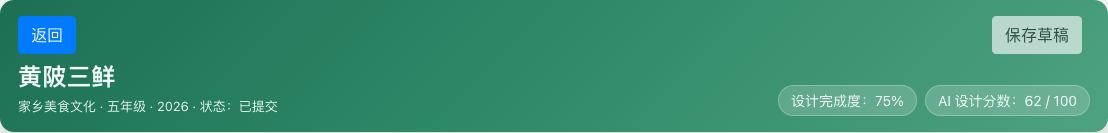
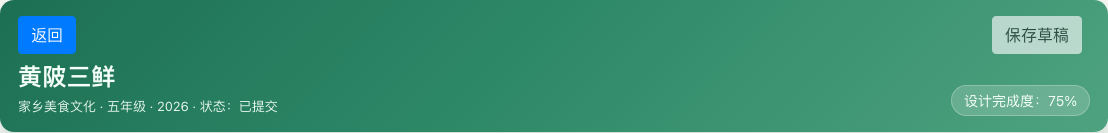
AI 设计分数: move from plan header onto its AI 点评 row
The score belongs to the content version its AI review saw, so it now
rides on that row (badge in the 内容 cell for the owner, the 评分 column
for experts/admins) with the itemized-score + criteria tooltip; the row's
内容已更新 tag covers both. attachAiScores now also serves the plan's owner
(peer teachers still never get a score) and only design-scope AI rows.
Header keeps 设计完成度 only. Manual text moved to the AI 点评 chapter;
screenshots updated.

Changed region(s): [[0.6751, 0.6316, 0.9819, 0.8722]]

diff --git a/react-app/src/components/plan-detail.component.js b/react-app/src/components/plan-detail.component.js
@@ -223,64 +223,24 @@ const DynamicSectionFields = ({ fields, subsections, values, canEdit, onFieldCha
   );
 };
 
-// The header's 设计完成度 and AI 设计分数 -- both score the 计划 (design)
-// only; 实施 counterparts may come later. Sent only to the owner and
-// admins/experts (plan.controller.js#findOne's canSeeProgress) -- a peer
-// teacher never gets them, so this renders nothing for them. As of the last
-// save (retrievePlan reloads them). Its own component rather than inline
-// JSX: PlanDetail is big enough that one more conditional branch in it trips
+// The header's 设计完成度 -- planCompletion.js scores the 计划 (design)
+// only; an 实施完成度 may come later. Sent only to the owner and
+// admins/experts (plan.controller.js#findOne's canSeeCompletion) -- a peer
+// teacher never gets it, so this renders nothing for them. As of the last
+// save (retrievePlan reloads it). (AI 设计分数 sits on its AI 点评 row, see
+// review-list.component.js.) Its own component rather than inline JSX:
+// PlanDetail is big enough that one more conditional branch in it trips
 // react-hooks/rules-of-hooks' path counting into a false "hook called
 // conditionally" error, which fails the dev build.
-// AI 设计分数's hover text: per dimension, the score it got and the
-// standard's 考察要点 it was scored against.
-const aiDesignScoreTooltip = (s) => {
-  const scored = new Map((s.dimensionScores || []).map((d) => [d.name, d]));
-  const dims = (s.criteria || []).length > 0 ? s.criteria : s.dimensionScores || [];
-  const blocks = dims.map((dim) => {
-    const got = scored.get(dim.name);
-    const head = `【${dim.name}】${got ? `${got.score}/${dim.weight}${got.level ? `（${got.level}）` : ""}` : `满分 ${dim.weight}`}`;
-    return [head, ...(dim.criteria || []).map((c) => `· ${c}`)].join("\n");
-  });
-  return [
-    `评分标准：${s.standardTitle || "AI 点评标准"}（#${s.standardId}${s.maxScore ? `，满分 ${s.maxScore}` : ""}）`,
-    ...blocks,
-    `打分于 ${new Date(s.scoredAt).toLocaleString()}`,
-    s.stale && "内容已更新：课程内容已在此 AI 打分后被修改，分数针对的是修改前的内容。",
-  ]
-    .filter(Boolean)
-    .join("\n\n");
-};
-
-const PlanProgressBadges = ({ completion, aiDesignScore: s }) => {
-  if (!completion && !s) return null;
-  return (
-    <div className="d-flex flex-wrap" style={{ gap: "8px" }}>
-      {completion && (
-        <span
-          className="pl-completion"
-          title={`基本信息 ${completion.basic}% · 课程设计 ${completion.design}% · 分课时设计 ${completion.lessonDesign}%（按上次保存的内容计算）`}
-        >
-          设计完成度：{completion.overall}%
-        </span>
-      )}
-      {s && (
-        <span
-          className="pl-completion"
-          title={aiDesignScoreTooltip(s)}
-        >
-          AI 设计分数：{s.totalScore}
-          {s.maxScore ? ` / ${s.maxScore}` : ""}
-          {/* Same tag as an out-of-date AI 点评 row (review-list.component.js). */}
-          {s.stale && (
-            <span className="pl-tag pl-tag-warn ml-2" title="课程内容已在此 AI 打分后被修改，分数针对的是修改前的内容">
-              内容已更新
-            </span>
-          )}
-        </span>
-      )}
-    </div>
-  );
-};
+const CompletionBadge = ({ completion }) =>
+  completion ? (
+    <span
+      className="pl-completion"
+      title={`基本信息 ${completion.basic}% · 课程设计 ${completion.design}% · 分课时设计 ${completion.lessonDesign}%（按上次保存的内容计算）`}
+    >
+      设计完成度：{completion.overall}%
+    </span>
+  ) : null;
 
 // The page's single 保存草稿/提交待点评 pair, rendered once in the sticky
 // header (see .pl-sticky-header) rather than above and below every section
@@ -1822,7 +1782,7 @@ const PlanDetail = (props) => {
                 {plan.isExcellentCase ? " · 优秀案例" : ""}
               </p>
             </div>
-            <PlanProgressBadges completion={plan.completion} aiDesignScore={plan.aiDesignScore} />
+            <CompletionBadge completion={plan.completion} />
           </div>
           {plan.suspended && !isAdmin && (
             <div className="alert alert-warning py-2 mb-0">该课程设计已被管理员停用，如需修改请联系管理员。</div>

diff --git a/backend/app/controllers/review.controller.js b/backend/app/controllers/review.controller.js
@@ -238,40 +238,49 @@ exports.markSeen = async (req, res) => {
 
 // "super" inherits every admin privilege, including deleting any review
 // regardless of authorship.
-// AI 打分 rides along on the AI review rows it belongs to -- a score of the
-// same plan content version, i.e. of exactly the content that review saw:
-// preferably one under the review's own standard (the one produced in, or
-// current at, that review's turn), otherwise the newest score of that
-// content version -- a review written before any standard existed, or one
-// whose content was later scored under a newer standard, still shows how
-// that content scored. A score of a later version is never attached to an
-// earlier review. Shown in the review list's 评分 column,
-// which teachers don't see. Only experts and admins get it here, with the
-// same plan scope as 数据看板: admins any plan, experts only submitted,
-// non-suspended ones. (The plan's owner sees its latest score as the plan
-// header's AI 设计分数 instead -- plan.controller.js#findOne; peer teachers
-// never receive an AI score.)
+// AI 设计分数 (AI 打分) rides along on the AI review rows it belongs to -- a
+// score of the same plan content version, i.e. of exactly the content that
+// review saw: preferably one under the review's own standard (the one
+// produced in, or current at, that review's turn), otherwise the newest
+// score of that content version -- a review written before any standard
+// existed, or one whose content was later scored under a newer standard,
+// still shows how that content scored. A score of a later version is never
+// attached to an earlier review, so a row's 内容已更新 tag speaks for its
+// score too. Each score carries its standard's 满分 and per-dimension 考察要点
+// for the row's tooltip. Sent to the plan's owner (any of their plans) and
+// to admins (any plan) and experts (submitted, non-suspended plans -- the
+// same scope as 数据看板); peer teachers never receive an AI score.
 async function attachAiScores(planId, rows, userId) {
   const plain = rows.map((r) => r.get({ plain: true }));
-  const aiRows = plain.filter((r) => r.reviewerType === "ai" && r.lessonIndex === null);
+  const aiRows = plain.filter((r) => r.reviewerType === "ai" && r.lessonIndex === null && !r.sectionKey);
   if (!userId || aiRows.length === 0) return plain;
-  const isAdmin = await isAdminRequester(userId);
-  if (!isAdmin) {
+  const plan = await Plan.findByPk(planId, { attributes: ["teacherId", "status", "suspended"] });
+  if (!plan) return plain;
+  if (plan.teacherId !== userId && !(await isAdminRequester(userId))) {
     if (!(await isExpertRequester(userId))) return plain;
-    const plan = await Plan.findByPk(planId, { attributes: ["status", "suspended"] });
-    if (!plan || plan.status === "draft" || plan.suspended) return plain;
+    if (plan.status === "draft" || plan.suspended) return plain;
   }
   const scores = await db.aiPlanScore.findAll({ where: { planId }, order: [["id", "DESC"]] });
+  const standardIds = [...new Set(scores.map((x) => x.standardId).filter(Boolean))];
+  const standards = standardIds.length
+    ? await db.aiReviewStandard.findAll({ where: { id: { [db.Sequelize.Op.in]: standardIds } }, attributes: ["id", "content"] })
+    : [];
+  const contentById = new Map(standards.map((st) => [Number(st.id), st.content || {}]));
   const time = (d) => (d ? new Date(d).getTime() : null);
   aiRows.forEach((r) => {
     const sameContent = scores.filter((x) => time(x.planVersionAt) === time(r.planVersionAt));
     const s = sameContent.find((x) => Number(x.standardId) === Number(r.standardId)) || sameContent[0];
     if (s) {
+      const content = contentById.get(Number(s.standardId)) || {};
       r.aiScore = {
         totalScore: Number(s.totalScore),
+        maxScore: content.totalScore || null,
         dimensionScores: s.dimensionScores,
         summary: s.summary,
         standardId: s.standardId,
+        standardTitle: content.title || null,
+        criteria: (content.dimensions || []).map((d) => ({ name: d.name, weight: d.weight, criteria: d.criteria || [] })),
+        scoredAt: s.createdAt,
       };
     }
   });

diff --git a/backend/app/controllers/plan.controller.js b/backend/app/controllers/plan.controller.js
@@ -116,37 +116,12 @@ const canViewNonExcellentPlan = async (plan, userId) => {
   return (expert || teacher) && plan.status !== "draft";
 };
 
-// Who sees a plan's 设计完成度 and AI 设计分数: its owner,
-// admins/super-admins and experts.
-const canSeeProgress = async (plan, userId) => {
+// Who sees a plan's 设计完成度: its owner, admins/super-admins and experts.
+const canSeeCompletion = async (plan, userId) => {
   if (!userId) return false;
   if (plan.teacherId === userId) return true;
   const [admin, expert] = await Promise.all([isAdminRequester(userId), isExpertRequester(userId)]);
   return admin || expert;
-};
-
-// The plan's newest AI 打分 (same pick as 数据看板), or null if never
-// scored. `stale`: the plan's content was edited after the scored version
-// -- the same version check review-list.component.js's isCurrentVersion
-// uses to tag AI 点评 rows 内容已更新.
-const latestAiDesignScore = async (plan) => {
-  const s = await db.aiPlanScore.findOne({ where: { planId: plan.id }, order: [["id", "DESC"]] });
-  if (!s) return null;
-  const standard = s.standardId ? await db.aiReviewStandard.findByPk(s.standardId, { attributes: ["id", "content"] }) : null;
-  const time = (d) => (d ? new Date(d).getTime() : 0);
-  const content = (standard && standard.content) || {};
-  return {
-    totalScore: Number(s.totalScore),
-    maxScore: content.totalScore || null,
-    standardTitle: content.title || null,
-    // The standard's own per-dimension 考察要点, for the score's tooltip.
-    criteria: (content.dimensions || []).map((d) => ({ name: d.name, weight: d.weight, criteria: d.criteria || [] })),
-    dimensionScores: s.dimensionScores,
-    summary: s.summary,
-    standardId: s.standardId,
-    scoredAt: s.createdAt,
-    stale: time(plan.contentVersionAt) !== time(s.planVersionAt),
-  };
 };
 
 // 乡土主题 options come from the active plan_design template's own "附件"
@@ -546,18 +521,17 @@ exports.findOne = async (req, res) => {
       return res.status(403).send({ message: "无权查看该乡土课程设计。" });
     }
 
-    // 设计完成度 (planCompletion.js) and AI 设计分数 (the latest
-    // ai_plan_scores row, as 数据看板 shows it) are for the plan's owner and
-    // for admins/experts, who track progress -- not for a peer teacher (or
-    // an anonymous gallery visitor) browsing someone else's plan, so they're
-    // only computed and sent for the former.
-    if (await canSeeProgress(data, req.userId)) {
+    // 设计完成度 (planCompletion.js) is for the plan's owner and for
+    // admins/experts, who track progress -- not for a peer teacher (or an
+    // anonymous gallery visitor) browsing someone else's plan, so it's only
+    // computed and sent for the former. (AI 设计分数 rides on its AI 点评
+    // row instead -- review.controller.js#attachAiScores.)
+    if (await canSeeCompletion(data, req.userId)) {
       const plain = data.get({ plain: true });
       plain.completion = computeCompletion(plain, {
         planSchema: data.PlanTemplateVersion ? data.PlanTemplateVersion.schemaJson : null,
         hasDesignArtifact: (data.Artifacts || []).some((a) => a.lessonIndex === null || a.lessonIndex === undefined),
       });
-      plain.aiDesignScore = await latestAiDesignScore(data);
       return res.send(plain);
     }
 

diff --git a/react-app/src/components/review-list.component.js b/react-app/src/components/review-list.component.js
@@ -3,6 +3,7 @@ import ReviewDataService from "../services/review.service";
 import AuthService from "../services/auth.service";
 import { takeLocalDraft, isDraftStale } from "../utils/sessionExpiryGuard";
 import { getPendingReviewEdit, setPendingReviewEdit, clearPendingReviewEdit, reviewPayload } from "../utils/pendingReviewEdits";
+import { aiDesignScoreTooltip, aiDesignScoreText } from "../utils/aiDesignScore";
 
 // Migrated from shinshin's comments-list.component.js (inline textarea-submit + list-below
 // pattern), extended with:
@@ -782,24 +783,21 @@ const ReviewList = (props) => {
                 );
               }
 
+              // AI 设计分数 from the same content version as this AI review
+              // (review.controller.js#attachAiScores) -- sent to the plan's
+              // owner and to experts/admins, never to a peer teacher. In the
+              // 评分 column where there is one (experts/admins), otherwise
+              // (the owner's view) as a badge in the row itself; either way
+              // hover shows the itemized scores and scoring criteria, and the
+              // row's 内容已更新 tag covers the score too.
+              const aiScoreBadge = review.aiScore && (
+                <span className="pl-ai-score" title={aiDesignScoreTooltip(review.aiScore)}>
+                  AI 设计分数：{aiDesignScoreText(review.aiScore)}
+                </span>
+              );
               const scoreContent = review.aiScore ? (
-                // AI 打分 from the same turn/content version as this AI
-                // review -- only ever sent to experts/admins (see
-                // review.controller.js#attachAiScores); hover for the
-                // per-dimension breakdown.
-                <span
-                  style={{ cursor: "help", borderBottom: "1px dotted" }}
-                  title={[
-                    ...(review.aiScore.dimensionScores || []).map(
-                      (d) => `${d.name}：${d.score}/${d.weight}${d.level ? `（${d.level}）` : ""}`
-                    ),
-                    review.aiScore.summary && `总评：${review.aiScore.summary}`,
-                    `依据 AI 点评标准 #${review.aiScore.standardId}`,
-                  ]
-                    .filter(Boolean)
-                    .join("\n")}
-                >
-                  {review.aiScore.totalScore}
+                <span style={{ cursor: "help", borderBottom: "1px dotted" }} title={aiDesignScoreTooltip(review.aiScore)}>
+                  {aiDesignScoreText(review.aiScore)}
                 </span>
               ) : review.score !== null && review.score !== undefined ? (
                 review.score
@@ -854,6 +852,7 @@ const ReviewList = (props) => {
                       {isAggregateView && <td>{moduleContent}</td>}
                       {showScore && <td>{scoreContent}</td>}
                       <td className="small" style={{ whiteSpace: "nowrap" }}>
+                        {!showScore && aiScoreBadge}
                         {toggle || <span className="text-muted">见下方</span>}
                       </td>
                       <td style={{ whiteSpace: "nowrap" }}>{reviewerName}</td>

diff --git a/backend/app/services/teacherManualGenerator.js b/backend/app/services/teacherManualGenerator.js
@@ -397,13 +397,7 @@ push(
       "鼠标移到上面可查看三部分各自的完成比例。设计完成度按上次保存的内容计算，点击「保存草稿」后更新。" +
       "设计完成度仅作者本人、专家和管理员可见，其他教师浏览您的课程设计时看不到。"
   ),
-  p(
-    "课程设计经过 AI 打分后，「设计完成度」旁还会显示「AI 设计分数」（如「62 / 100」），即依据当前 AI 点评标准对「计划」部分给出的最新总分。" +
-      "鼠标移到分数上，可查看评分标准中每个维度的得分与等级，以及该维度的考察要点。" +
-      "如果打分之后课程内容又有修改，分数旁会出现橙色的「内容已更新」标记（与 AI 点评的过期标记相同），表示该分数针对的是修改前的内容，可再次请 AI 点评以获得新的分数。" +
-      "与设计完成度一样，AI 设计分数仅作者本人、专家和管理员可见。"
-  ),
-  ...screenshot("plan-completion", "标题栏右下角的「设计完成度」与「AI 设计分数」")
+  ...screenshot("plan-completion", "标题栏右下角的「设计完成度」")
 );
 
 // ============================================================
@@ -562,6 +556,16 @@ push(
     "AI 点评以浅蓝紫色底色显示：上面一行是类型、模块、点评人、时间等信息，下面整行宽度显示点评全文，便于阅读；" +
       "较长的 AI 点评默认只显示前几行，点击「展开全文」查看全部，点击「收起」恢复。"
   ),
+  bulletItem(
+    "「计划整体点评」中的 AI 点评附有「AI 设计分数」（如「62 / 100」）：AI 在生成这条点评时，依据当前 AI 点评标准对「计划」部分的同一版本内容给出的总分，" +
+      "显示在这条 AI 点评的「内容」一栏。鼠标移到分数上，可查看评分标准中每个维度的得分与等级，以及该维度的考察要点。"
+  ),
+  bulletItem(
+    "分数与点评针对的是同一版本的内容：如果之后课程内容又有修改，这条 AI 点评会出现橙色的「内容已更新」标记，表示点评和分数都针对修改前的内容，" +
+      "可再次「请AI点评」获得新的点评和分数。"
+  ),
+  bulletItem("AI 设计分数仅作者本人、专家和管理员可见，其他教师浏览您的课程设计时看不到。"),
+  ...screenshot("ai-design-score-row", "AI 点评「内容」一栏中的「AI 设计分数」"),
   bulletItem("「基本信息」页面会显示「AI已点评」标签，只要存在任意一条 AI 点评即会显示。"),
   warn("请求 AI 点评是所有者本人的操作（其他教师、专家、管理员无法为别人的课程设计触发 AI 点评）。")
 );

diff --git a/react-app/src/utils/aiDesignScore.js b/react-app/src/utils/aiDesignScore.js
@@ -1,0 +1,23 @@
+// AI 设计分数's hover text (see review.controller.js#attachAiScores for the
+// score's shape): the standard it was scored against, then per dimension
+// the score it got and that dimension's 考察要点.
+export const aiDesignScoreTooltip = (s) => {
+  const scored = new Map((s.dimensionScores || []).map((d) => [d.name, d]));
+  const dims = (s.criteria || []).length > 0 ? s.criteria : s.dimensionScores || [];
+  const blocks = dims.map((dim) => {
+    const got = scored.get(dim.name);
+    const head = `【${dim.name}】${got ? `${got.score}/${dim.weight}${got.level ? `（${got.level}）` : ""}` : `满分 ${dim.weight}`}`;
+    return [head, ...(dim.criteria || []).map((c) => `· ${c}`)].join("\n");
+  });
+  return [
+    `评分标准：${s.standardTitle || "AI 点评标准"}（#${s.standardId}${s.maxScore ? `，满分 ${s.maxScore}` : ""}）`,
+    ...blocks,
+    s.summary && `总评：${s.summary}`,
+    s.scoredAt && `打分于 ${new Date(s.scoredAt).toLocaleString()}`,
+  ]
+    .filter(Boolean)
+    .join("\n\n");
+};
+
+// "62 / 100" (or just "62" when the standard's 满分 is unknown).
+export const aiDesignScoreText = (s) => `${s.totalScore}${s.maxScore ? ` / ${s.maxScore}` : ""}`;

diff --git a/backend/scripts/captureManualScreenshots.js b/backend/scripts/captureManualScreenshots.js
@@ -264,8 +264,14 @@ async function run() {
     await page.getByText("计划整体点评", { exact: true }).first().click();
     await page.waitForTimeout(300);
     await shoot(page.locator(".pl-card").first(), "review-panel");
+    // The owner's view of an AI 点评 row: AI 设计分数 badge in its 内容 cell
+    // (experts/admins get it in the 评分 column instead).
+    {
+      const aiRow = page.locator("tr.pl-review-ai-meta").first();
+      if (await aiRow.locator(".pl-ai-score").count()) await shoot(aiRow, "ai-design-score-row");
+    }
 
-    console.log("==> plan-detail: 设计完成度 / AI 设计分数 (标题栏)");
+    console.log("==> plan-detail: 设计完成度 (标题栏)");
     await shoot(page.locator(".pl-hero").first(), "plan-completion");
 
     console.log("==> plan-detail: 支撑材料 (文件管理器)");

diff --git a/react-app/src/curriculum.css b/react-app/src/curriculum.css
@@ -374,6 +374,21 @@
   color: var(--pl-accent);
 }
 
+/* An AI 点评 row's AI 设计分数 (review-list.component.js) -- same palette
+   as .pl-tag-ai, hover for the itemized scores and criteria. */
+.pl-ai-score {
+  display: inline-block;
+  margin-right: 10px;
+  padding: 2px 10px;
+  border-radius: 999px;
+  font-size: 13px;
+  font-weight: 600;
+  background: #eef1ff;
+  color: #3b3fa0;
+  border: 1px solid #cfd4f5;
+  cursor: help;
+}
+
 .pl-tag-ai {
   display: inline-block;
   padding: 2px 8px;
